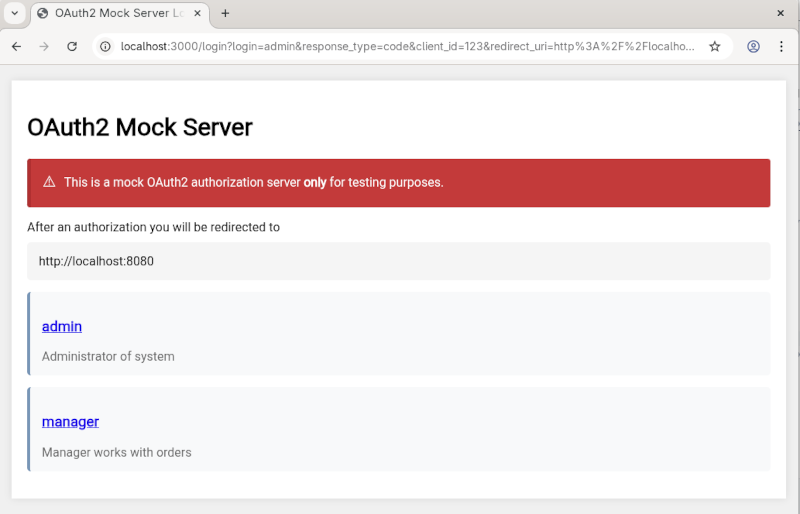
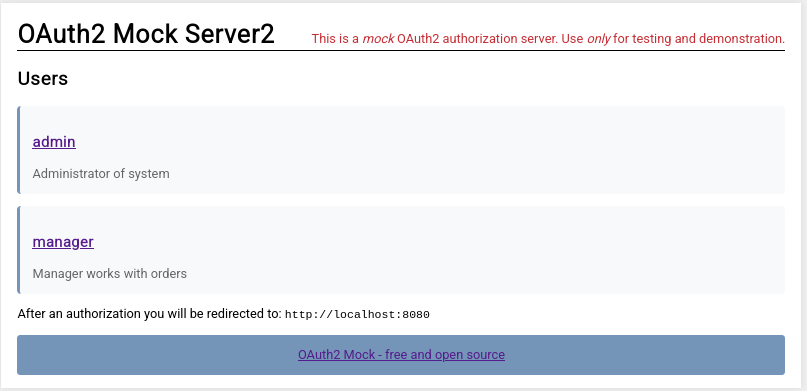
Adds restrictions access to README

diff --git a/src/configuration.rs b/src/configuration.rs
@@ -162,7 +162,7 @@ impl ApplicationConfiguration {
                     let sign_key_len = access_restriction.sign_key.len();
                     if sign_key_len > 0 && sign_key_len < 64 {
                         return Err(Box::new(ConfigurationError::AccessRestrictionError(
-                            "Sign key must be at least 64 characters long".to_string(),
+                            "Sign key must be at least 64 characters long. Use [oauth2-mock generate-sign-key] to get valid value".to_string(),
                         )));
                     }
                 }

diff --git a/src/main.rs b/src/main.rs
@@ -71,7 +71,7 @@ async fn main() -> Result<(), Box<dyn std::error::Error>> {
     let app_config = match &args.config {
         Some(path) => match ApplicationConfiguration::from_file(path) {
             Ok(config) => config,
-            Err(e) => {
+            Err(e) => {           
                 eprintln!("Failed to load configuration.\n{}", e);
                 std::process::exit(1);
             }

diff --git a/README.md b/README.md
@@ -1,16 +1,17 @@
 # OAuth2 Mock Server
 
-A lightweight OAuth2 authorization server mock.
+A lightweight very simple OAuth2 authorization server mock.
+
 This server is designed **only** for testing OAuth2 flows in development and testing environments. Another case — use this as a simple OAuth2 provider for product demonstration.
 
 ## Features
 
-- **Authorization Code Flow**: Complete implementation of the OAuth2 authorization code grant type
-- **Token Endpoint**: Exchange authorization codes for access tokens
-- **User Info Endpoint**: Retrieve user information specific to the authorized user
 - **Configurable Users**: Load users from JSON configuration file with custom claims
 - **Interactive User Selection**: Web interface to select users during authorization
-- **
+- **Access Restriction**: Simple way restrict access to your demo environments.
+- **Authorization Code Flow**: Complete implementation of the OAuth2 authorization code grant type
+- **User Info Endpoint**: Retrieve user information specific to the authorized user
+
 
 ![Authorization page](images/authorization_page.png)
 
@@ -40,5 +41,24 @@ Each user is described by fields:
   You can write any fields - usually same as your production OAuth2 provider.
 
 ## Simple access restriction
-TODO Добавить описание ограничения доступа
+If you use oauth2mock for a public demo stand of your application, you may want to restrict access to
+the application. OAuth2mock implements a simple but effective access restriction mechanism 
+using an Access Code to process OAuth2 flow. It ensures that only users who know the correct code can 
+access your demo stand.
 
+**Warning** Do not use oauth2mock to secure your demo application if it contains any private or 
+sensitive information.
+
+![Access code](images/access_code.png)
+
+By default restriction access is disabled. You may enabled it using configuration's section `access_restriction`
+* **enabled** Enables or disables the access restriction
+* **code** The access code that users must enter to make OAuth2 authorization request. Can't be empty if access restriction is enabled 
+* **sign_key** A secret key server uses to sign authentication cookies. Must be a string with a length of more than 64 characters. An empty string is allowed, but not recommended. If empty, oauth2mock will generate sing_key on each service restart. 
+
+## Generate sign-key
+oauth2mock can generate good sign_key for you:
+```
+oauth2-mock generate-sign-key
+```
+Copy output string and paste into the configuration.
